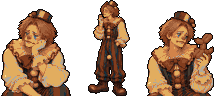
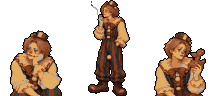
Draw the clown's busts smaller and give his cigarette smoke
His presenting and pleased busts were taken from a window just wide
enough for the figure, so his head came out a third larger than the
other customers'. They now come from a wider window, which brings it
down to their size.

The concept's smoke did not survive the reduction, so the waiting
frame gets a thin wisp drawn on afterwards: light steel gray rising
from the cigarette, thinning out and darker towards the top.

diff --git a/docs/gamedesign/art-direction.md b/docs/gamedesign/art-direction.md
@@ -82,7 +82,9 @@ sheet made from a concept may leave out palette colors the character does not ha
 use no cool or mat colors, so the concept's blue rim light turns gray instead of blue). A frame may be drawn at another
 scale than its neighbors: the `dog-walker` waiting frame holds the whole figure and the dog, the `clown` one the whole
 figure smoking, the other two frames a bust. The concept's reds have no match in the palette, so the clown's nose, bow
-and stripes come out rust brown; the smoke is left out. A frame stands on the bottom of its figure, so an object that is not cut off (a box) rests on the frame's bottom
+and stripes come out rust brown. The concept's smoke does not survive the reduction, so the waiting frame has a
+thin wisp drawn on afterwards, light steel gray, thinning out and darker towards the top. The clown's busts are taken
+from a wider window than the figure needs, so his head comes out the size of the other customers'. A frame stands on the bottom of its figure, so an object that is not cut off (a box) rests on the frame's bottom
 edge.
 
 The fifth customer is not a person: `parcel` is a box that comes with no sender (closed when it comes in, open from the
